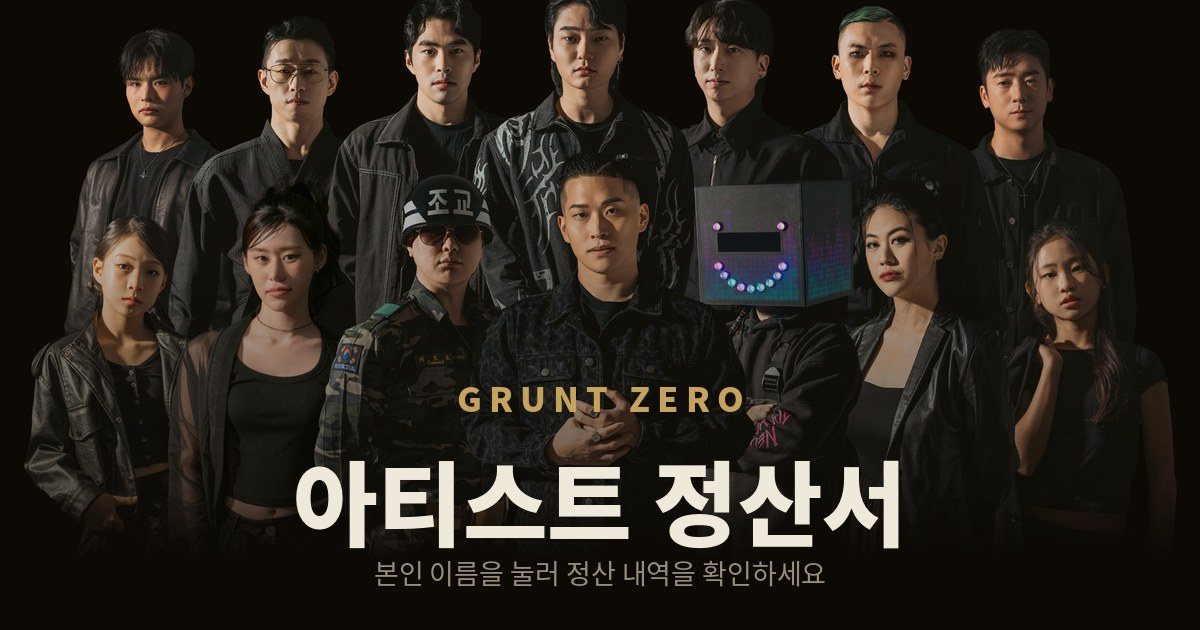
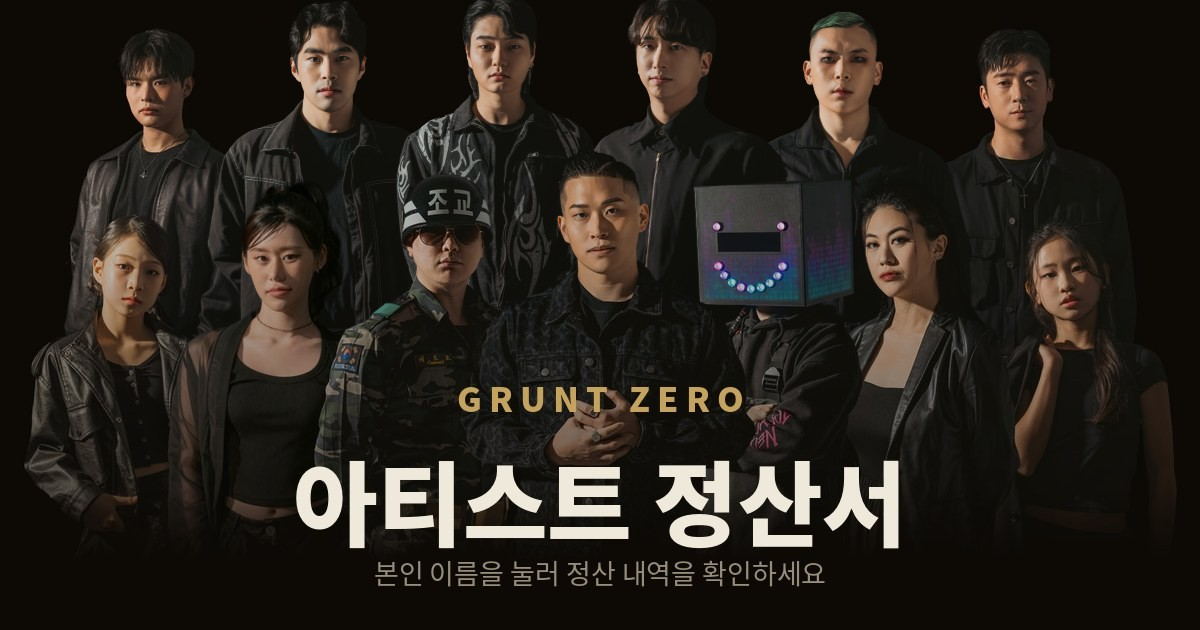
사이트 수정 2026-10-30 15:47

Changed region(s): [[0.1233, 0.0, 0.7708, 0.5429]]

diff --git a/lineup.html b/lineup.html
@@ -11,7 +11,7 @@
 <meta property="og:site_name" content="GRUNT ZERO">
 <meta property="og:title" content="GRUNT ZERO | 라인업 · 출연료">
 <meta property="og:description" content="소속 아티스트 소개 · 공연 영상 · 출연료 · 테크니컬 라이더 · 장비 렌탈. 공연 문의 1800-8790">
-<meta property="og:image" content="https://lineup.grntzero.com/img/og_lineup2.jpg">
+<meta property="og:image" content="https://lineup.grntzero.com/img/og_lineup2_13.jpg">
 <meta property="og:image:width" content="1200">
 <meta property="og:image:height" content="630">
 <meta property="og:url" content="https://lineup.grntzero.com/">
@@ -514,7 +514,7 @@ a:focus-visible,button:focus-visible{outline:2px solid var(--gold2);outline-offs
     페스티벌 메인 스테이지를 맡는 팀부터 어린이 공연 전담 팀, 어린이 DJ 듀오까지 행사 성격에 맞춰 조합합니다.
     단체사진에서 아티스트를 누르면 해당 소개와 공연 영상으로 이동합니다.</p>
   <div class="crew crewmap">
-    <div class="crewph"><img src="img/crew.jpg" alt="GRUNT ZERO 소속 아티스트 단체 사진"><a class="hot" href="#a-woad" style="left:8.9%;top:4%;width:8.3%;height:26%" aria-label="WOAD 소개 보기"><span>WOAD</span></a><a class="hot" href="#a-killaton" style="left:32.8%;top:4%;width:7.8%;height:26%" aria-label="KillaTon 소개 보기"><span>KillaTon</span></a><a class="hot" href="#a-loki" style="left:44.4%;top:4%;width:8.3%;height:26%" aria-label="LOKI 소개 보기"><span>LOKI</span></a><a class="hot" href="#a-poy" style="left:56.1%;top:4%;width:8.3%;height:26%" aria-label="POY 소개 보기"><span>POY</span></a><a class="hot" href="#a-deta" style="left:68.3%;top:4%;width:8.3%;height:26%" aria-label="DETA 소개 보기"><span>DETA</span></a><a class="hot" href="#a-rogun" style="left:80.6%;top:4%;width:8.3%;height:26%" aria-label="ROGUN 소개 보기"><span>ROGUN</span></a><a class="hot" href="#a-berri" style="left:3.3%;top:32%;width:12.2%;height:55%" aria-label="BERRI 소개 보기"><span>BERRI</span></a><a class="hot" href="#a-haena" style="left:16.1%;top:32%;width:11.7%;height:55%" aria-label="HAENA 소개 보기"><span>HAENA</span></a><a class="hot" href="#a-gunner" style="left:28.1%;top:32%;width:13.1%;height:55%" aria-label="허조교 소개 보기"><span>허조교</span></a><a class="hot" href="#a-sefo" style="left:41.4%;top:32%;width:16.1%;height:55%" aria-label="SEFO 소개 보기"><span>SEFO</span></a><a class="hot" href="#a-moshee" style="left:57.8%;top:32%;width:13.6%;height:55%" aria-label="MOSHEE 소개 보기"><span>MOSHEE</span></a><a class="hot" href="#a-annaconda" style="left:71.7%;top:32%;width:11.9%;height:55%" aria-label="ANNACONDA 소개 보기"><span>ANNACONDA</span></a><a class="hot" href="#a-sseni" style="left:83.9%;top:32%;width:12.8%;height:55%" aria-label="SSENI 소개 보기"><span>SSENI</span></a></div>
+    <div class="crewph"><img src="img/crew13.jpg" alt="GRUNT ZERO 소속 아티스트 단체 사진"><a class="hot" href="#a-woad" style="left:8.9%;top:4%;width:8.3%;height:26%" aria-label="WOAD 소개 보기"><span>WOAD</span></a><a class="hot" href="#a-killaton" style="left:23.4%;top:4%;width:7.8%;height:26%" aria-label="KillaTon 소개 보기"><span>KillaTon</span></a><a class="hot" href="#a-loki" style="left:37.5%;top:4%;width:8.3%;height:26%" aria-label="LOKI 소개 보기"><span>LOKI</span></a><a class="hot" href="#a-poy" style="left:51.8%;top:4%;width:8.3%;height:26%" aria-label="POY 소개 보기"><span>POY</span></a><a class="hot" href="#a-deta" style="left:66.1%;top:4%;width:8.3%;height:26%" aria-label="DETA 소개 보기"><span>DETA</span></a><a class="hot" href="#a-rogun" style="left:80.6%;top:4%;width:8.3%;height:26%" aria-label="ROGUN 소개 보기"><span>ROGUN</span></a><a class="hot" href="#a-berri" style="left:3.3%;top:32%;width:12.2%;height:55%" aria-label="BERRI 소개 보기"><span>BERRI</span></a><a class="hot" href="#a-haena" style="left:16.1%;top:32%;width:11.7%;height:55%" aria-label="HAENA 소개 보기"><span>HAENA</span></a><a class="hot" href="#a-gunner" style="left:28.1%;top:32%;width:13.1%;height:55%" aria-label="허조교 소개 보기"><span>허조교</span></a><a class="hot" href="#a-sefo" style="left:41.4%;top:32%;width:16.1%;height:55%" aria-label="SEFO 소개 보기"><span>SEFO</span></a><a class="hot" href="#a-moshee" style="left:57.8%;top:32%;width:13.6%;height:55%" aria-label="MOSHEE 소개 보기"><span>MOSHEE</span></a><a class="hot" href="#a-annaconda" style="left:71.7%;top:32%;width:11.9%;height:55%" aria-label="ANNACONDA 소개 보기"><span>ANNACONDA</span></a><a class="hot" href="#a-sseni" style="left:83.9%;top:32%;width:12.8%;height:55%" aria-label="SSENI 소개 보기"><span>SSENI</span></a></div>
     <div class="crewcap">사진 속 아티스트를 누르면 소개로 이동합니다</div>
   </div>
   <div class="jump"><h3>ARTIST 바로가기</h3><div class="jlist"><a href="#a-sefo">SEFO</a><a href="#a-gunner">허조교</a><a href="#a-moshee">MOSHEE</a><a href="#a-poyloki">POY &amp; LOKI</a><a href="#a-anna_haena">ANNACONDA &amp; HAENA</a><a href="#a-killaton">KillaTon</a><a href="#a-deta">DETA</a><a href="#a-poy">POY</a><a href="#a-loki">LOKI</a><a href="#a-annaconda">ANNACONDA</a><a href="#a-haena">HAENA</a><a href="#a-rogun">ROGUN</a><a href="#a-woad">WOAD</a><a href="#a-sseni_berri">SSENI &amp; BERRI</a><a href="#a-sseni">SSENI</a><a href="#a-berri">BERRI</a></div></div>

diff --git a/artists.html b/artists.html
@@ -11,7 +11,7 @@
 <meta property="og:site_name" content="GRUNT ZERO">
 <meta property="og:title" content="ARTIST | GRUNT ZERO 소속 아티스트">
 <meta property="og:description" content="소속 DJ·MC·댄서 16팀. 팀별 공연 영상과 섭외 가능한 행사 유형.">
-<meta property="og:image" content="https://grntzero.com/img/og_artist.jpg">
+<meta property="og:image" content="https://grntzero.com/img/og_artist_13.jpg">
 <meta property="og:image:width" content="1200">
 <meta property="og:image:height" content="630">
 <meta property="og:url" content="https://artist.grntzero.com/">
@@ -221,7 +221,7 @@ img{max-width:100%;display:block}
 
 <section class="crew">
   <div class="ph">
-    <img src="img/crew.jpg" alt="GRUNT ZERO 아티스트 단체사진">
+    <img src="img/crew13.jpg" alt="GRUNT ZERO 아티스트 단체사진">
     <a class="hot" href="#a-woad" style="left:8.9%;top:4%;width:8.3%;height:26%" aria-label="WOAD 소개 보기"><span>WOAD</span></a><a class="hot" href="#a-killaton" style="left:32.8%;top:4%;width:7.8%;height:26%" aria-label="KillaTon 소개 보기"><span>KillaTon</span></a><a class="hot" href="#a-loki" style="left:44.4%;top:4%;width:8.3%;height:26%" aria-label="LOKI 소개 보기"><span>LOKI</span></a><a class="hot" href="#a-poy" style="left:56.1%;top:4%;width:8.3%;height:26%" aria-label="POY 소개 보기"><span>POY</span></a><a class="hot" href="#a-deta" style="left:68.3%;top:4%;width:8.3%;height:26%" aria-label="DETA 소개 보기"><span>DETA</span></a><a class="hot" href="#a-rogun" style="left:80.6%;top:4%;width:8.3%;height:26%" aria-label="ROGUN 소개 보기"><span>ROGUN</span></a><a class="hot" href="#a-berri" style="left:3.3%;top:32%;width:12.2%;height:55%" aria-label="BERRI 소개 보기"><span>BERRI</span></a><a class="hot" href="#a-haena" style="left:16.1%;top:32%;width:11.7%;height:55%" aria-label="HAENA 소개 보기"><span>HAENA</span></a><a class="hot" href="#a-gunner" style="left:28.1%;top:32%;width:13.1%;height:55%" aria-label="허조교 소개 보기"><span>허조교</span></a><a class="hot" href="#a-sefo" style="left:41.4%;top:32%;width:16.1%;height:55%" aria-label="SEFO 소개 보기"><span>SEFO</span></a><a class="hot" href="#a-moshee" style="left:57.8%;top:32%;width:13.6%;height:55%" aria-label="MOSHEE 소개 보기"><span>MOSHEE</span></a><a class="hot" href="#a-annaconda" style="left:71.7%;top:32%;width:11.9%;height:55%" aria-label="ANNACONDA 소개 보기"><span>ANNACONDA</span></a><a class="hot" href="#a-sseni" style="left:83.9%;top:32%;width:12.8%;height:55%" aria-label="SSENI 소개 보기"><span>SSENI</span></a>
     <div class="cap"><b>GRUNT ZERO CREW</b><span>그런트제로 소속 아티스트 · 사진 속 아티스트를 누르면 소개로 이동합니다</span></div>
   </div>

diff --git a/index.html b/index.html
@@ -11,7 +11,7 @@
 <meta property="og:site_name" content="GRUNT ZERO">
 <meta property="og:title" content="GRUNT ZERO | DJ 공연 전문 기획사">
 <meta property="og:description" content="소속 아티스트 16팀 · 고객사 226개+ · 2025년 공연 393회. 페스티벌부터 소규모 공연까지, 행사에 맞는 DJ 공연을 설계합니다.">
-<meta property="og:image" content="https://grntzero.com/img/og_main.jpg">
+<meta property="og:image" content="https://grntzero.com/img/og_main_13.jpg">
 <meta property="og:image:width" content="1200">
 <meta property="og:image:height" content="630">
 <meta property="og:url" content="https://grntzero.com/">
@@ -428,7 +428,7 @@ a:focus-visible,button:focus-visible{outline:2px solid var(--gold2);outline-offs
 <section class="band" id="artist"><div class="wrap">
   <div class="shd"><h2>ARTIST</h2><span class="kr">소속 아티스트</span></div>
   <div class="crew">
-    <img src="img/crew.jpg" alt="GRUNT ZERO 소속 아티스트 단체 사진">
+    <img src="img/crew13.jpg" alt="GRUNT ZERO 소속 아티스트 단체 사진">
     <div class="crewcap">GRUNT ZERO ARTISTS</div>
   </div>
   <p class="lede">DJ·MC·댄서 <strong>16팀</strong>이 소속돼 있습니다.

diff --git a/dl/index.html b/dl/index.html
@@ -8,7 +8,7 @@
 <meta property="og:site_name" content="GRUNT ZERO">
 <meta property="og:title" content="GRUNT ZERO 로고·프로필 자료실">
 <meta property="og:description" content="포스터·홍보물 제작에 쓰실 아티스트 로고와 프로필 사진을 받으실 수 있습니다.">
-<meta property="og:image" content="https://grntzero.com/img/og_dl.jpg">
+<meta property="og:image" content="https://grntzero.com/img/og_dl_13.jpg">
 <meta property="og:image:width" content="1200">
 <meta property="og:image:height" content="630">
 <meta property="og:url" content="https://dl.grntzero.com/">

diff --git a/manual/index.html b/manual/index.html
@@ -11,7 +11,7 @@
 <meta property="og:site_name" content="GRUNT ZERO">
 <meta property="og:title" content="GRUNT ZERO 회사 매뉴얼">
 <meta property="og:description" content="아티스트 · 현장지원 · 직원이 같이 보는 그런트제로 매뉴얼">
-<meta property="og:image" content="https://manual.grntzero.com/img/og_manual2.jpg">
+<meta property="og:image" content="https://manual.grntzero.com/img/og_manual2_13.jpg">
 <meta property="og:image:width" content="1200">
 <meta property="og:image:height" content="630">
 <meta property="og:url" content="https://manual.grntzero.com/">

diff --git a/schedule/index.html b/schedule/index.html
@@ -15,7 +15,7 @@
 <meta property="og:site_name" content="GRUNT ZERO">
 <meta property="og:title" content="GRUNT ZERO 아티스트 스케줄">
 <meta property="og:description" content="공연 일정을 실시간으로 확인하세요.">
-<meta property="og:image" content="https://grntzero.com/img/og_schedule.jpg">
+<meta property="og:image" content="https://grntzero.com/img/og_schedule_13.jpg">
 <meta property="og:image:width" content="1200">
 <meta property="og:image:height" content="630">
 <meta property="og:url" content="https://schedule.grntzero.com/">

diff --git a/my/index.html b/my/index.html
@@ -8,7 +8,7 @@
 <meta property="og:site_name" content="GRUNT ZERO">
 <meta property="og:title" content="GRUNT ZERO 아티스트 정산서">
 <meta property="og:description" content="본인 이름을 눌러 정산 내역을 확인하세요.">
-<meta property="og:image" content="https://grntzero.com/img/og_my.jpg">
+<meta property="og:image" content="https://grntzero.com/img/og_my_13.jpg">
 <meta property="og:image:width" content="1200">
 <meta property="og:image:height" content="630">
 <meta property="og:url" content="https://my.grntzero.com/">
